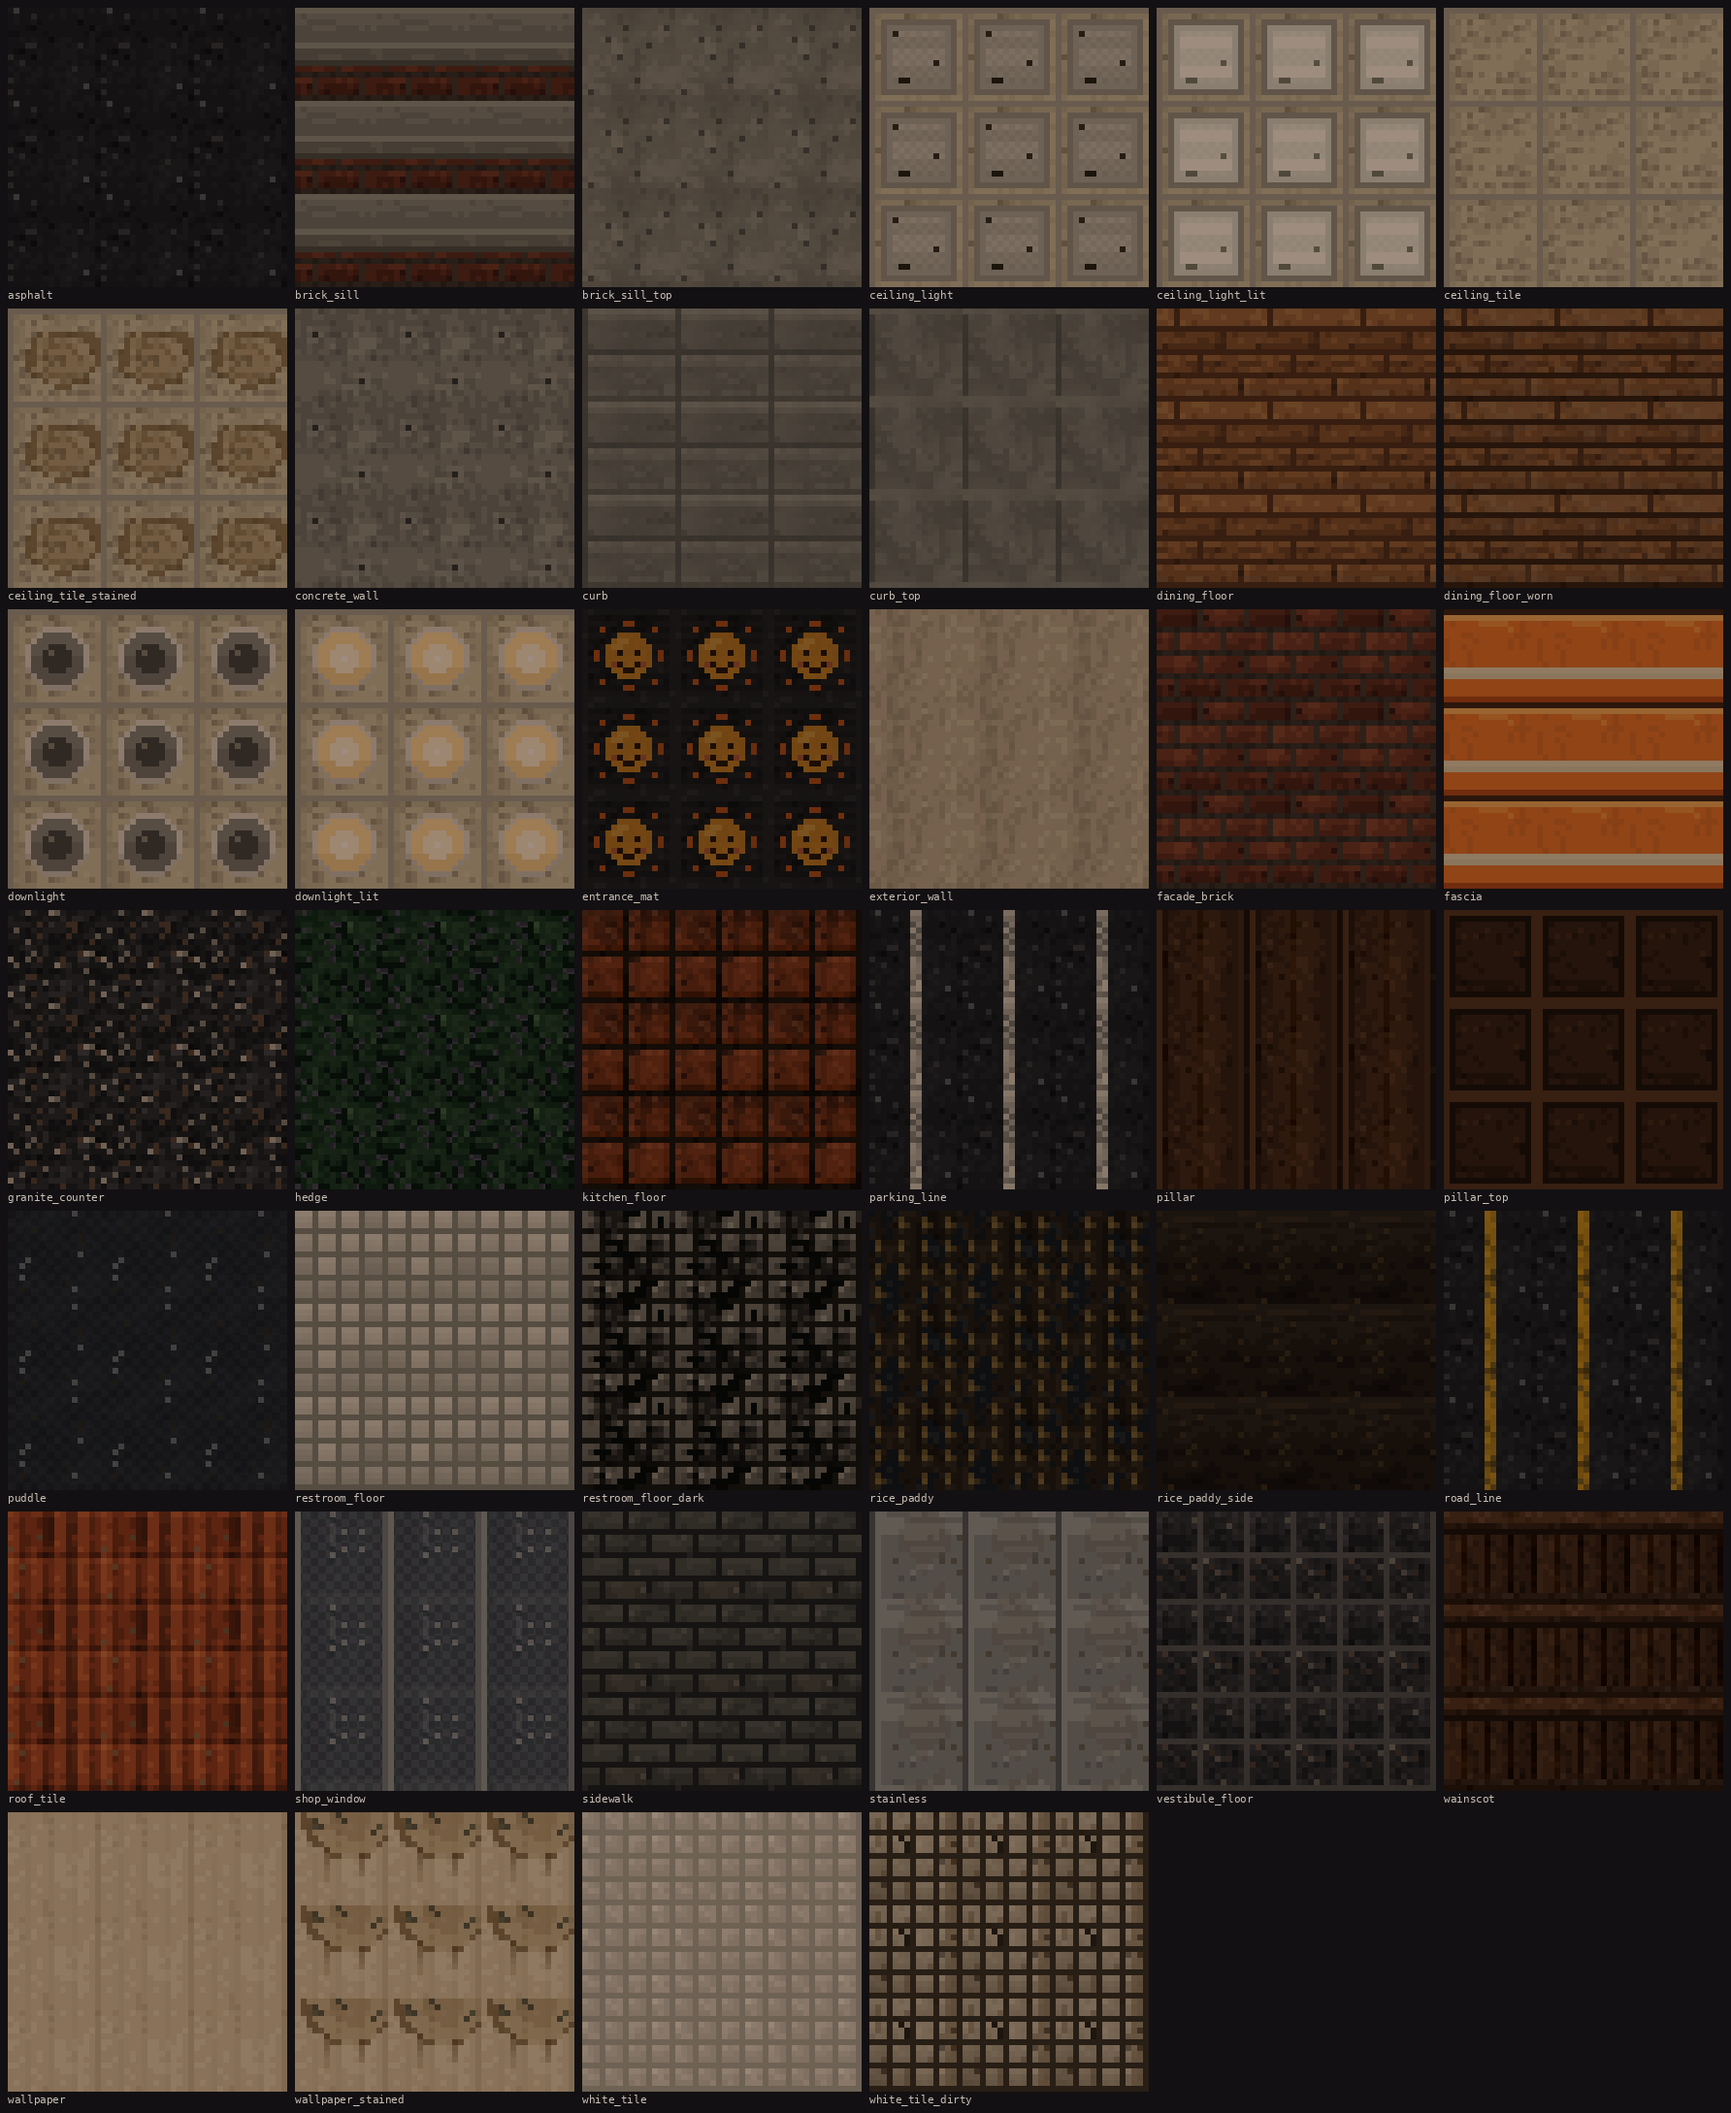
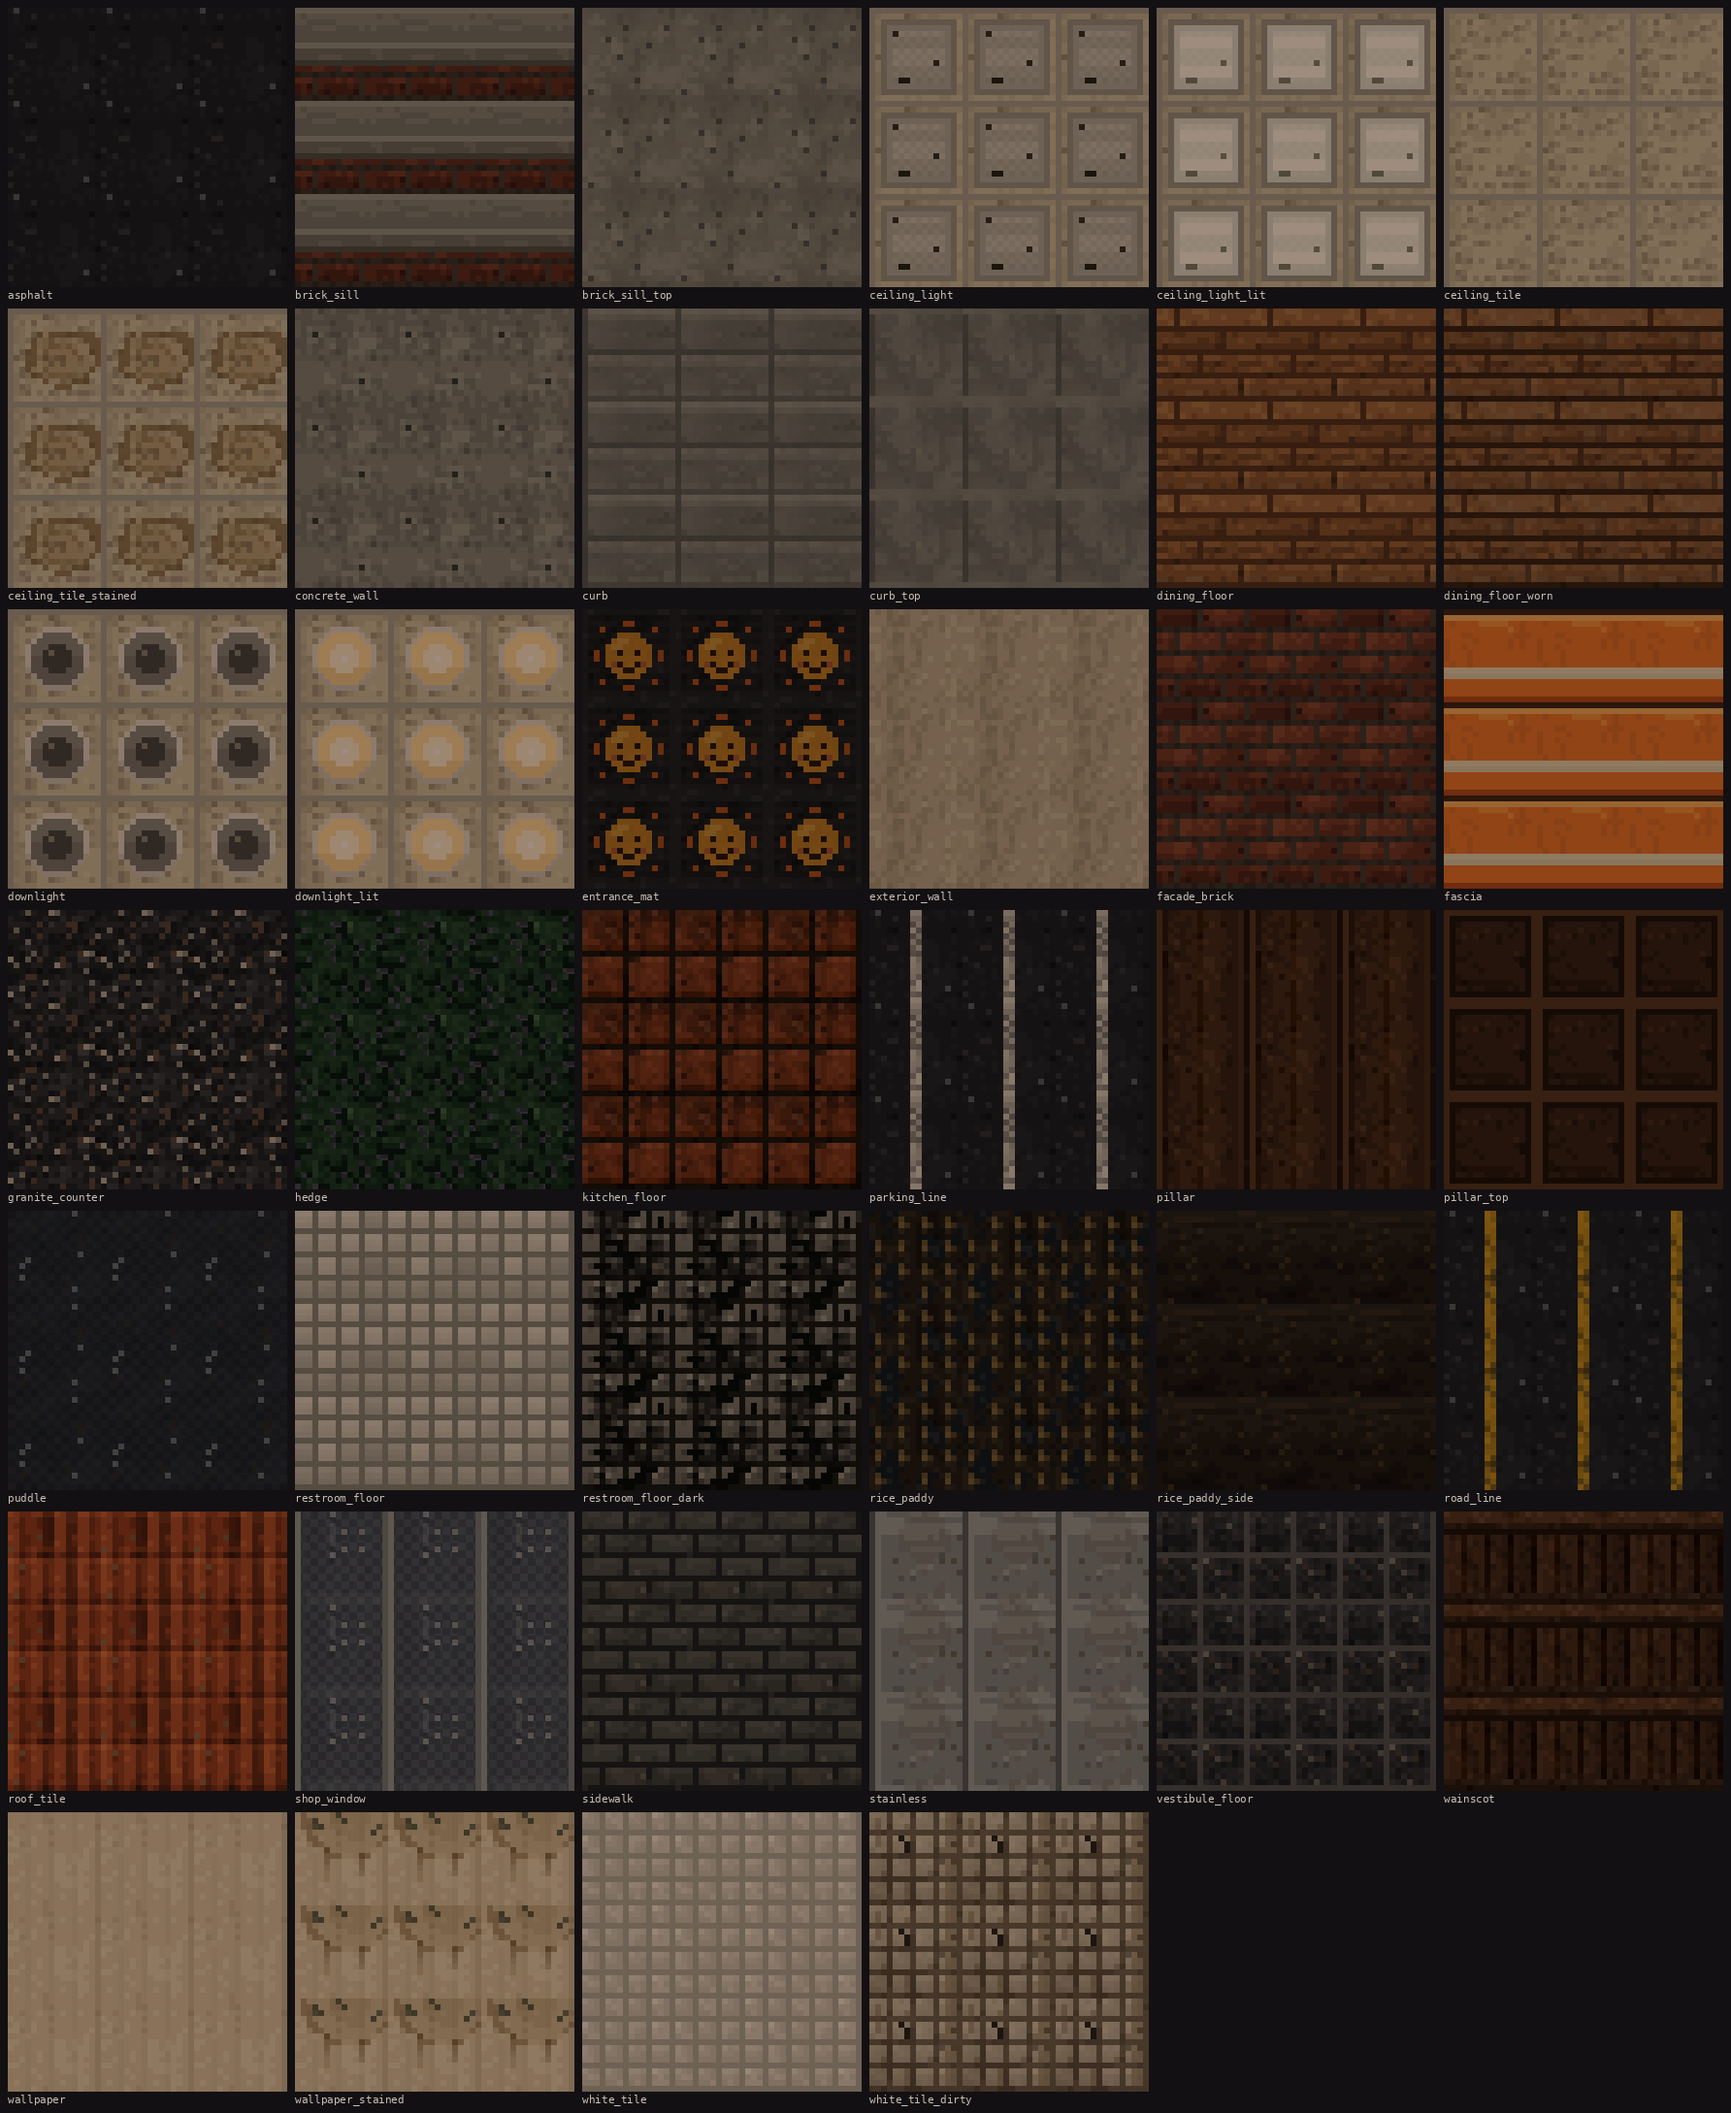
Art: fascia / granite / price tag polish
Claude-Session: https://claude.ai/code/session_017h8AWA8SMb3MbjFEftA5Gv

Changed region(s): [[0.4933, 0.843, 0.6783, 0.9991]]

diff --git a/tools/art/rs_surfaces.py b/tools/art/rs_surfaces.py
@@ -539,10 +539,9 @@ def fascia():
     a[10:12] = from_idx(np.full((2, 16), 5.0) + n[10:12] * 0.2, CREAM)
     dl(a[11:12], -0.03)
     a[15] = from_idx(np.full(16, 2.0), ORANGE)
-    # faint dirt streaks from the roof edge, sun-faded paint
-    st = wrapn(2402, beta=0.6, sx=1, sy=14)
-    tint(a, '#5a3420', 0.12, (st > 0.9) & (y > 1) & (y < 10))
+    # sun-faded paint, grime collected along the lower edge of the band
     tint(a, '#c9a080', 0.08)
+    tint(a, '#4a2a18', 0.10, (y >= 12) & (y < 15))
     return a
 
 
@@ -772,10 +771,10 @@ def granite_counter():
     # wrap-safe: rebuild with tileable noise
     r = rng(3401)
     n = wrapn(3402, beta=0.5)
-    a = from_idx(2.4 + n * 0.9, GRANITE)
-    a[r.random((16, 16)) < 0.07] = C('#8a8780')
-    a[r.random((16, 16)) < 0.04] = C('#5d4a3c')
-    a[r.random((16, 16)) < 0.03] = C('#b5b2a8')
+    a = from_idx(2.4 + n * 0.7, GRANITE)
+    a[r.random((16, 16)) < 0.04] = C('#6e6c66')
+    a[r.random((16, 16)) < 0.03] = C('#4e4038')
+    a[r.random((16, 16)) < 0.012] = C('#a8a59c')
     return a
 
 

diff --git a/tools/art/rs_exterior.py b/tools/art/rs_exterior.py
@@ -296,8 +296,8 @@ def _board_face(msg):
         dm[(((xx - 10) / 9.0) ** 2 + ((yy - 5) / 4.2) ** 2) < 1.0] = 0.3
         dm[(((xx - 10) / 6.0) ** 2 + ((yy - 4.5) / 2.6) ** 2) < 1.0] = 0.9
         over(a, chalk(dm, 12306, '#e8c070'), 4, 41)
-        pm = text_mask('¥780', 9, FONT_SANS_BOLD, binary=False, ss=4)
-        over(a, chalk(pm, 12307), 27, 44)
+        pm = text_mask('¥780', 8, FONT_SANS_BOLD, binary=False, ss=4)
+        over(a, chalk(pm, 12307), 26, 45)
     else:
         # 「まだ　いますか」: big, uneven, as if written by a shaking hand; everything else wiped
         l1 = text_mask('まだ', 16, FONT_SANS_JP_MED, binary=False, ss=4)
